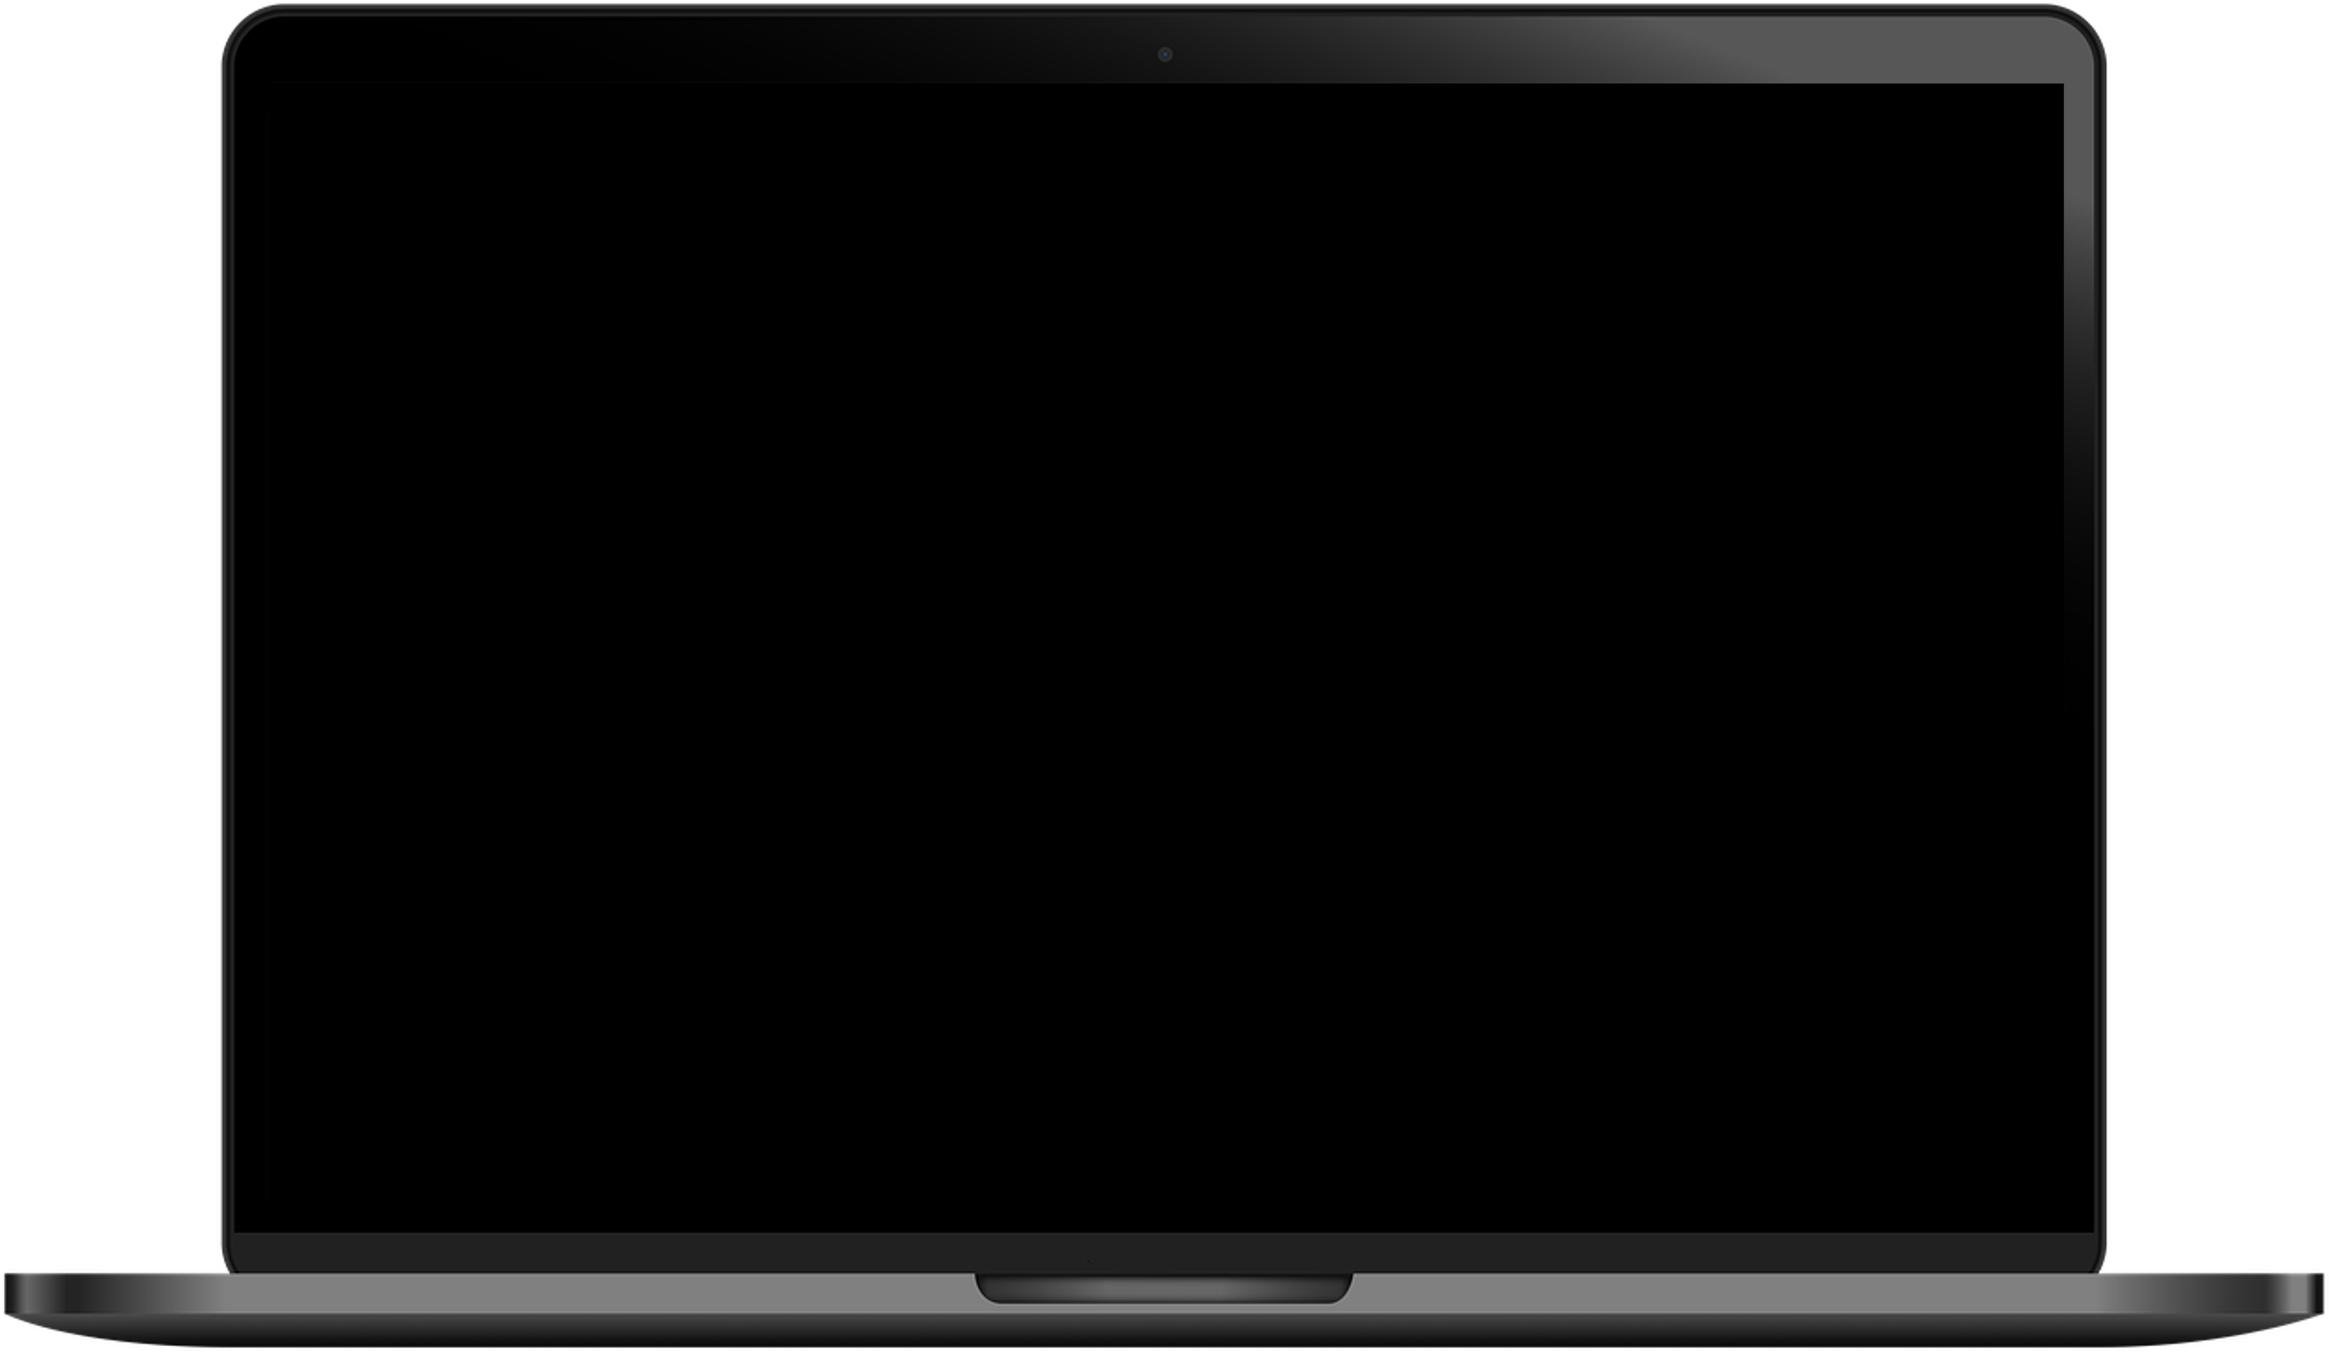
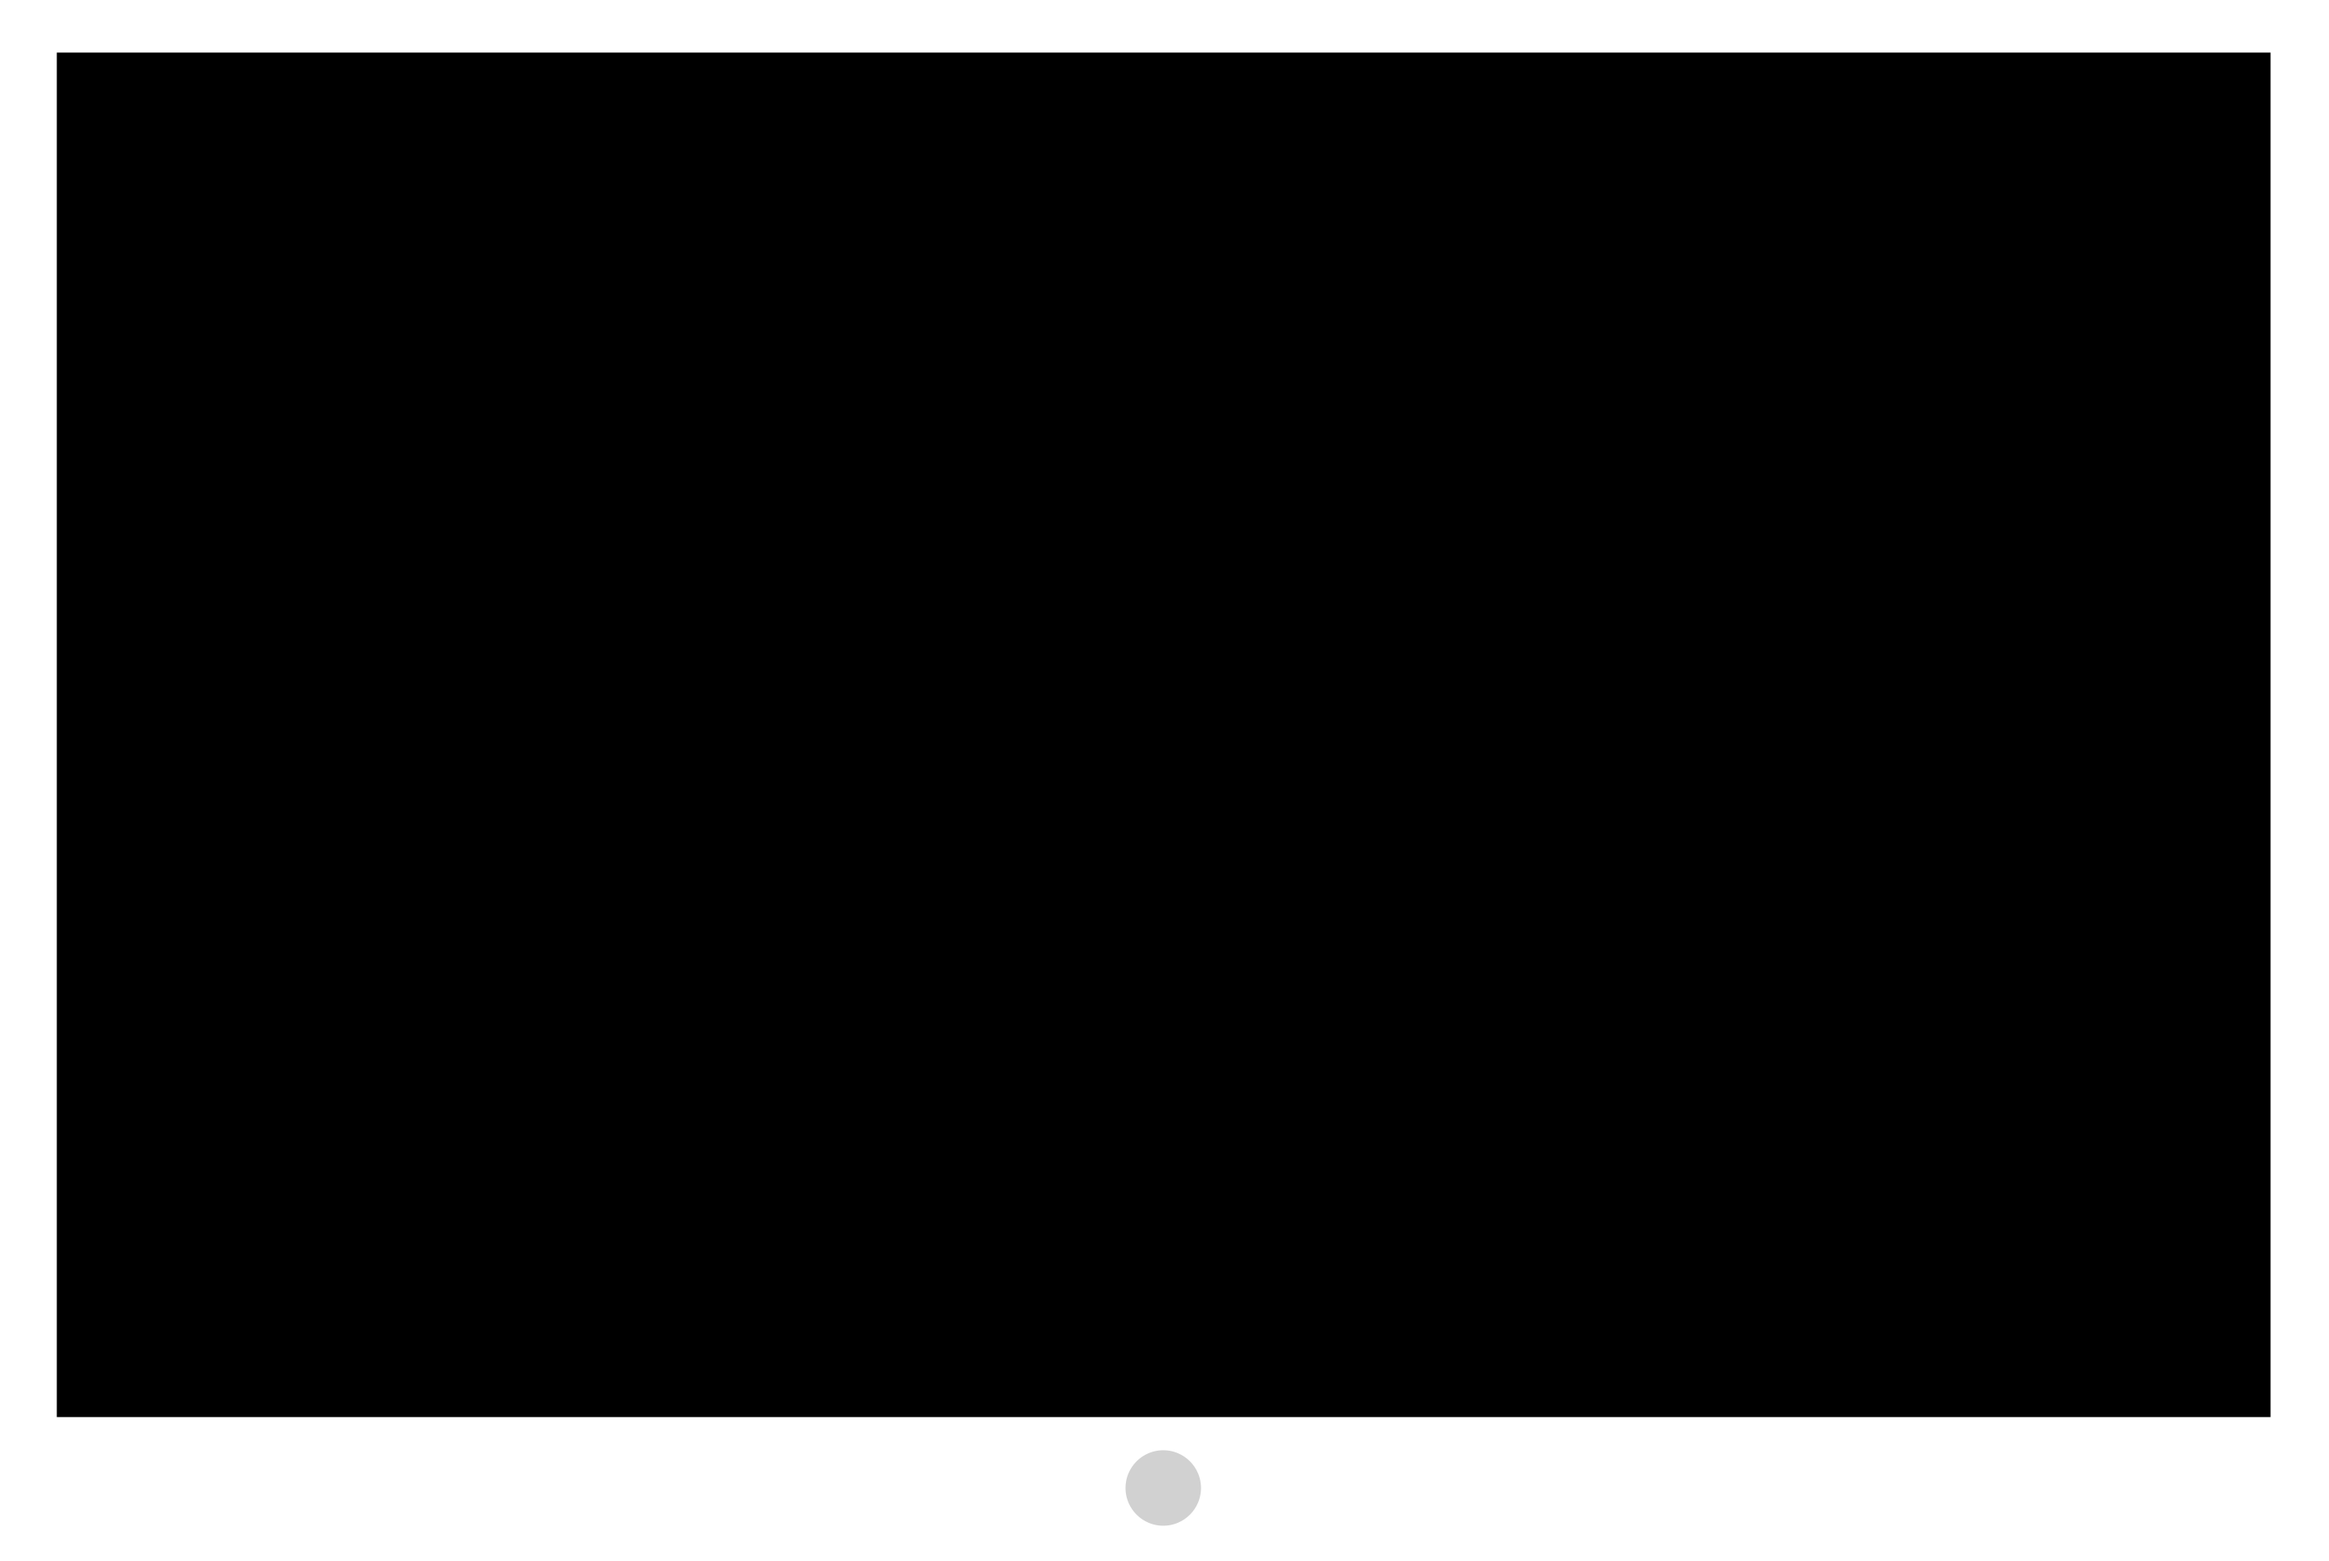
Style: 포트폴리오 배경변경, 맥북 이미지 변경

Changed region(s): [[0.0, 0.0, 1.0, 1.0]]

diff --git a/src/assets/main.scss b/src/assets/main.scss
@@ -281,7 +281,7 @@
     overflow-x: hidden;
     position: relative;
     height: 100dvh;
-    background-color: #fdbc3e;
+    background-color: #c0e7f9;
 
     .portfolio-bg {
         height: 100dvh;
@@ -299,7 +299,7 @@
         }
 
         .portfolio-slider {
-            margin: 5rem 0 0 3rem;
+            margin: 5rem 0 0 7rem;
             position: relative;
             height: 400px;
 
@@ -312,14 +312,16 @@
                 align-items: flex-start;
                 gap: 20px;
                 .portfolio-slide-img {
-                    width: 650px;
+                    width: 580px;
                     height: 400px;
                     overflow: hidden;
                     position: relative;
                     z-index: 1;
+                    box-shadow: 5px 5px rgba(0, 0, 0, 0.2);
+                    border-radius: 15px;
 
                     .macbook-img {
-                        width: 650px;
+                        width: 580px;
                         height: 400px;
                         z-index: 3;
                         overflow: hidden;
@@ -328,19 +330,20 @@
                     .macbook-img-slider {
                         cursor: pointer;
                         position: absolute;
-                        top: 24px;
-                        left: 75px;
+                        top: 12px;
+                        left: 50%;
+                        transform: translateX(-50%);
                         z-index: 2;
 
                         .view-slider {
                             position: relative;
-                            width: 501px;
-                            height: 325px;
+                            width: 552px;
+                            height: 352px;
 
                             img {
                                 position: absolute;
-                                width: 501px;
-                                height: 325px;
+                                width: 552px;
+                                height: 352px;
                             }
 
                             .view-page-button {
@@ -437,16 +440,14 @@
                         h4 {
                             position: absolute;
                             background-color: #fff;
-                            border-radius: 30px;
-                            padding: 2px 8px;
+                            border-radius: 10px;
+                            padding: 5px 8px;
                             top: -10px;
                             left: 20px;
                             font-size: 15px;
                             font-family: "SUITE-bold";
                         }
                         p {
-
-                        font-family: "SUITE-medium";
                             margin: 1rem 0 0 1rem;
                             font-size: 15px;
                             font-weight: 200;
@@ -502,10 +503,10 @@
                 button {
                     cursor: pointer;
                     background: none;
-                    border: 1px solid white;
                     border-radius: 50%;
+                    border: none;
                     box-shadow: 3px 3px rgba(0, 0, 0, 0.2);
-                    color: white;
+                    background-color: #fff;
                     width: 25px;
                     height: 25px;
                     font-size: 13px;
@@ -601,17 +602,18 @@
         position: relative;
 
         .macbook-device {
-            width: 1080px;
-            margin-bottom: 6.5rem;
+            width: 900px;
+            margin-bottom: 120px;
+            border-radius: 20px;
         }
 
         .macbook-view {
             position: absolute;
-            bottom: 172px;
+            bottom: 174px;
             left: 50%;
             transform: translateX(-50%);
-            width: 831px;
-            height: 520px;
+            width: 857px;
+            height: 530px;
             cursor: pointer;
         }
     }

diff --git a/src/components/Portfolio.jsx b/src/components/Portfolio.jsx
@@ -248,8 +248,7 @@ const Portfolio = () => {
                       ? {
                           width: "50px",
                           height: "50px",
-                          backgroundColor: "#fff",
-                          color: "#000",
+                          color: "#61cfff",
                           fontSize: "16px",
                           fontFamily: "SUITE-bold"
                         }
